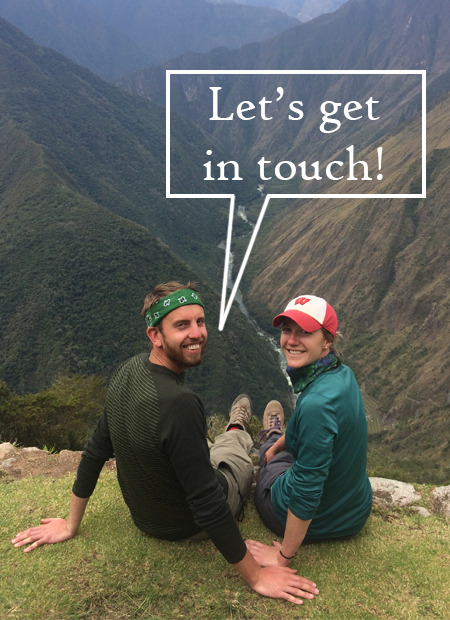
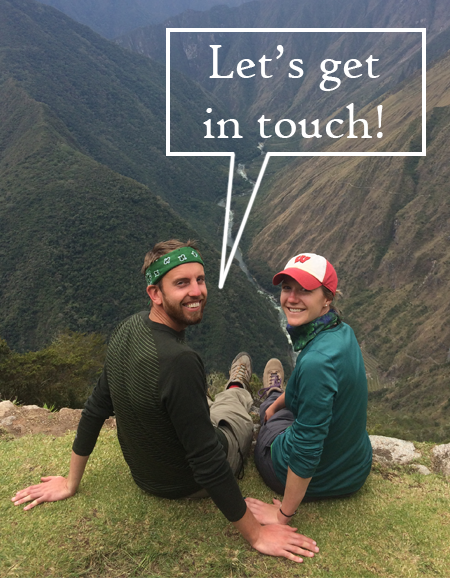
Updated photos and CSS

diff --git a/index.html b/index.html
@@ -123,9 +123,9 @@
             <div id="text-box-web">
                 <span id="spanning">
                     <p>fisherjohnmark[at]gmail.com</p>
-                    <a href="https://www.linkedin.com/in/johnmark-fisher-01103b152/" target="_blank"><img alt="Linkedin" src="assets/linkedin_thumb.svg" height="55px"></a>
-                    <a href="https://github.com/jmjfisher" target="_blank"><img alt="GitHub" src="assets/git_thumb.svg" height="55px"></a>
-                    <a href="https://twitter.com/jmj_fisher" target="_blank"><img alt="Twitter" src="assets/twitter_thumb.svg" height="55px"></a>
+                    <a href="https://www.linkedin.com/in/johnmark-fisher-01103b152/" target="_blank"><img class="tiny" alt="Linkedin" src="assets/linkedin_thumb.svg"></a>
+                    <a href="https://github.com/jmjfisher" target="_blank"><img class="tiny" alt="GitHub" src="assets/git_thumb.svg"></a>
+                    <a href="https://twitter.com/jmj_fisher" target="_blank"><img class="tiny" alt="Twitter" src="assets/twitter_thumb.svg"></a>
                 </span>
             </div>
         </div>
@@ -133,9 +133,9 @@
             <div id="text-box-mobile">
                 <span id="spanning">
                     <p>fisherjohnmark[at]gmail.com</p>
-                    <a href="https://www.linkedin.com/in/johnmark-fisher-01103b152/" target="_blank"><img alt="Linkedin" src="assets/linkedin_thumb.svg" height="55px"></a>
-                    <a href="https://github.com/jmjfisher" target="_blank"><img alt="GitHub" src="assets/git_thumb.svg" height="55px"></a>
-                    <a href="https://twitter.com/jmj_fisher" target="_blank"><img alt="Twitter" src="assets/twitter_thumb.svg" height="55px"></a>
+                    <a href="https://www.linkedin.com/in/johnmark-fisher-01103b152/" target="_blank"><img class="tiny" alt="Linkedin" src="assets/linkedin_thumb.svg"></a>
+                    <a href="https://github.com/jmjfisher" target="_blank"><img class="tiny" alt="GitHub" src="assets/git_thumb.svg"></a>
+                    <a href="https://twitter.com/jmj_fisher" target="_blank"><img class="tiny" alt="Twitter" src="assets/twitter_thumb.svg"></a>
                 </span>
             </div>
         </div>

diff --git a/css/style.css b/css/style.css
@@ -33,7 +33,7 @@
 }
 
 .abouth {
-    padding-top: 21px;
+    padding-top: 7px;
     font-weight: bold;
     font-size: 22px;
 }
@@ -63,6 +63,28 @@
     text-decoration: none;
 }
 
+.button:active {
+    background-color: #345387;
+    border: 1px solid #1e3151;
+    box-shadow: 1px 1px 7px #888888;
+    padding: 7px;
+    color: white;
+    font-size: 18px;
+    font-weight: bold;
+    border-radius: 10px;
+}
+
+.button:focus {
+    background-color: #345387;
+    border: 1px solid #1e3151;
+    box-shadow: 1px 1px 7px #888888;
+    padding: 7px;
+    color: white;
+    font-size: 18px;
+    font-weight: bold;
+    border-radius: 10px;
+}
+
 #port-row {
     padding-top: 80px;
     min-height: 688px;
@@ -86,7 +108,7 @@
 .other-pic {
     height: 100%;
     width: 100%;
-    max-height: 620px;
+    max-height: 578px;
     max-width: 450px;
     border-radius: 10px;
     border: 3px solid #4D4D4D;
@@ -103,7 +125,7 @@
 
 #contact-row {
     padding-top: 75px;
-    min-height: 693px;
+    min-height: 653px;
 }
 
 #contact {
@@ -111,6 +133,11 @@
     font-size: 18px;
     color: #4D4D4D;
     font-weight: bold;
+}
+
+.tiny {
+    height: 55px;
+    width: 55px;
 }
 
 #text-box-web {
